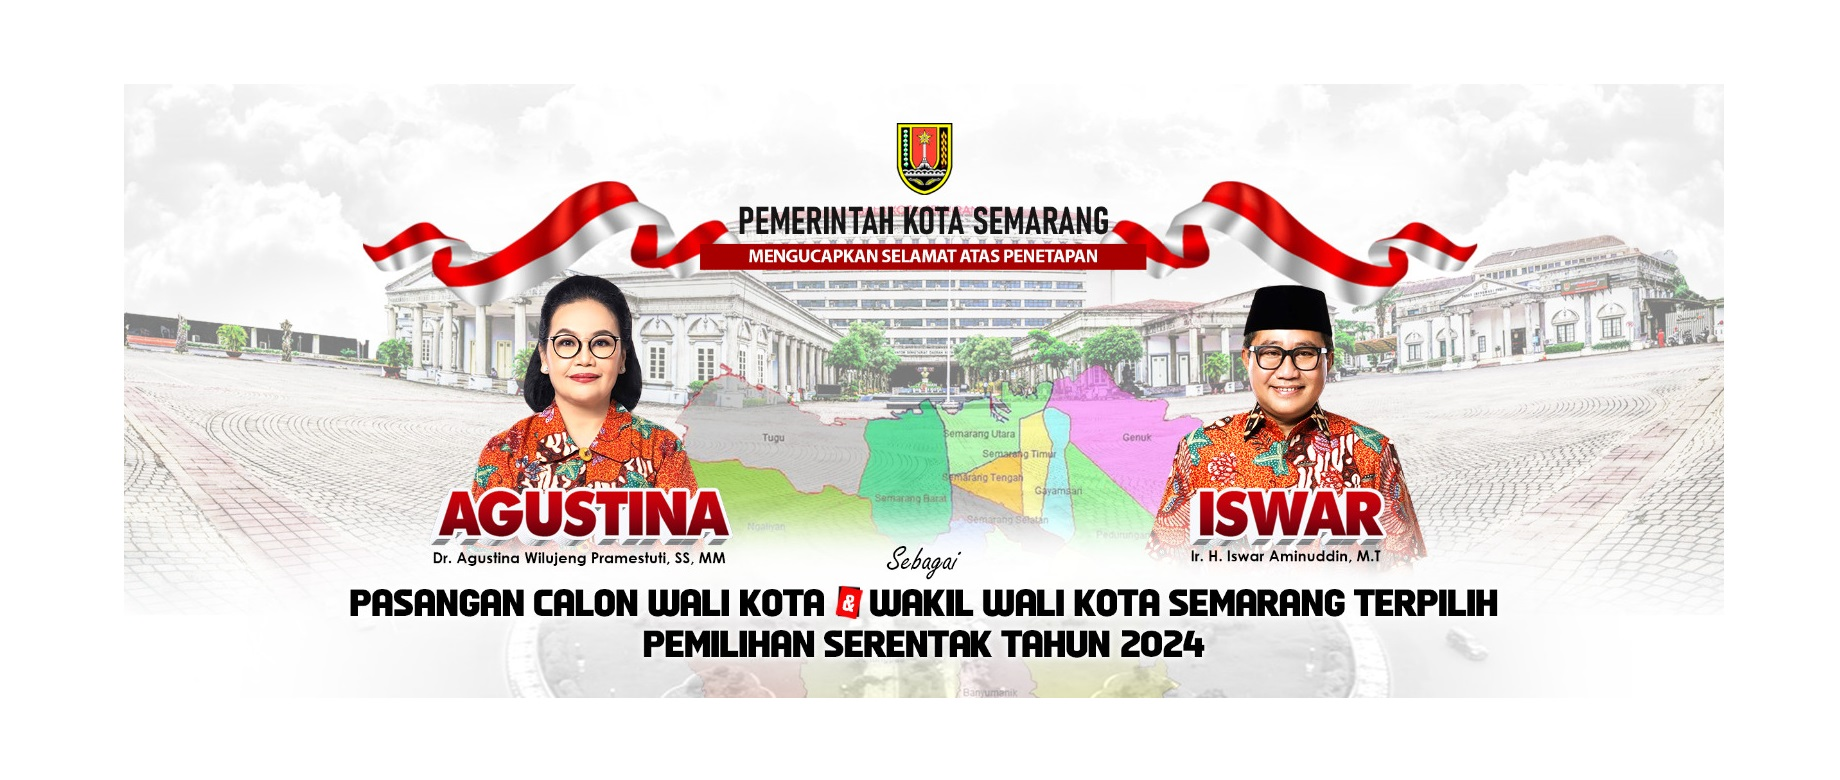
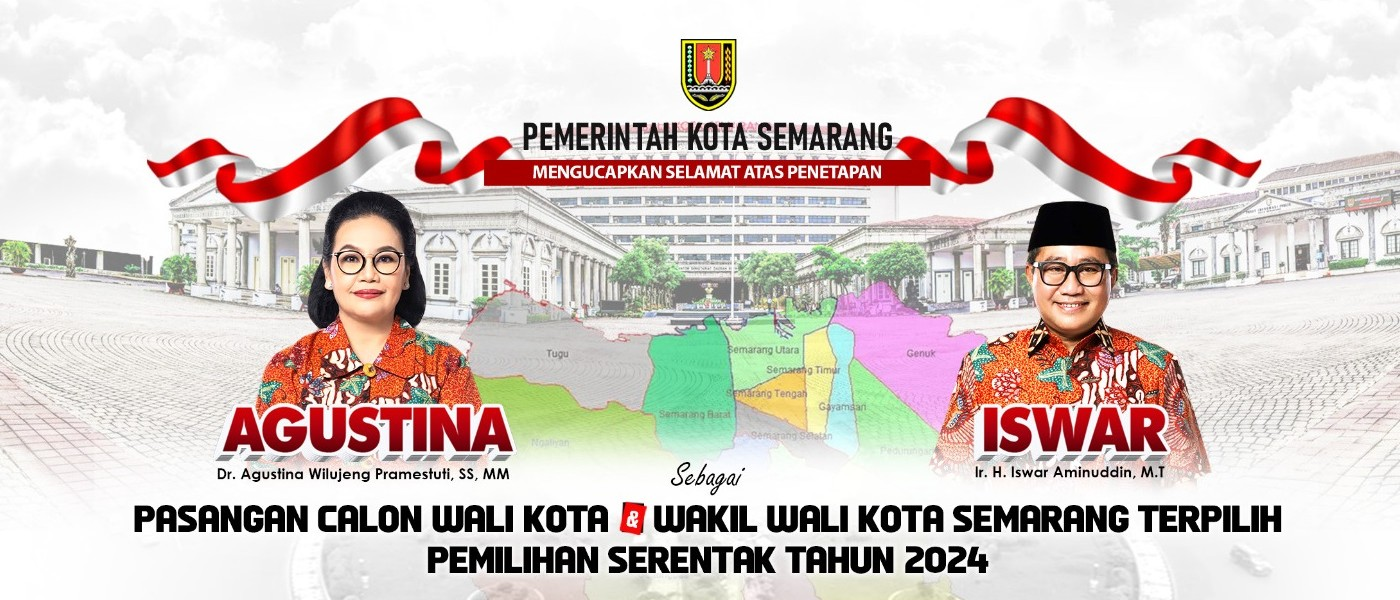
Refactor Navbar and HomePage: adjust navbar spacing and improve image handling in the hero slider for better layout and responsiveness

diff --git a/resources/views/components/navbar.blade.php b/resources/views/components/navbar.blade.php
@@ -23,7 +23,7 @@
 <body class="bg-gray-100 pt-24 overflow-x-hidden overflow-y-auto font-poppins">
 
 <!-- Navbar -->
-<nav class="bg-[#7D0A0A] text-white fixed top-0 left-0 w-full z-50 shadow-md" x-data="{ open: false, openProfil: false }">
+<nav class="bg-[#7D0A0A]  text-white fixed top-0 left-0 w-full z-50 shadow-md" x-data="{ open: false, openProfil: false }">
   <div class="flex items-center justify-between">
     <!-- Logo -->
     <div class="flex items-center clip-diagonal bg-white h-24 pl-4 pr-10 w-full md:w-auto">
@@ -116,7 +116,7 @@
 </nav>
 
 <!-- Sub-navbar Sosial Media -->
-<div class="bg-[#BF3131] mt-[90px] px-4 md:px-6 py-2 mb-8">
+<div class="bg-[#BF3131] mt-[95px] px-4 md:px-6 py-2 mb-8">
   <div class="max-w-screen-xl mx-auto flex items-center space-x-4">
     <a href="https://www.instagram.com/" target="_blank" aria-label="Instagram" class="w-9 h-9 flex items-center justify-center rounded-full bg-white hover:bg-gray-100 transition-all duration-300 ease-in-out transform hover:scale-110 hover:rotate-3 shadow">
       <i class="fab fa-instagram text-[#C13584] text-lg"></i>

diff --git a/resources/views/livewire/home-page.blade.php b/resources/views/livewire/home-page.blade.php
@@ -26,14 +26,14 @@
       x-init="setInterval(() => currentSlide = (currentSlide + 1) % totalSlides, 5000)"
       class="relative w-full h-full max-w-full overflow-hidden rounded-lg">
       <div 
-        class="flex transition-transform duration-500 ease-in-out w-full h-full"
+        class="flex transition-transform duration-500 ease-in-out  h-full"
         :style="{ transform: 'translateX(-' + (currentSlide * 100) + '%)' }">
-        <template x-for="(image, index) in ['UcapanSelamat.jpg', 'UcapanSelamat.jpg', 'UcapanSelamat.jpg']" :key="index">
+        <template x-for="(image, index) in ['img1.jpeg', 'UcapanSelamat.jpg', 'img2.jpg']" :key="index">
           <div class="min-w-full h-full">
             <img 
               :src="'{{ asset('images') }}/' + image"
               :alt="'Slide ' + (index + 1)"
-              class="w-full h-full object-cover"> <!-- Full Coverage Image -->
+              class="w-4/5 h-full px-20 mx-auto object-cover"> <!-- Full Coverage Image -->
           </div>
         </template>
       </div>
